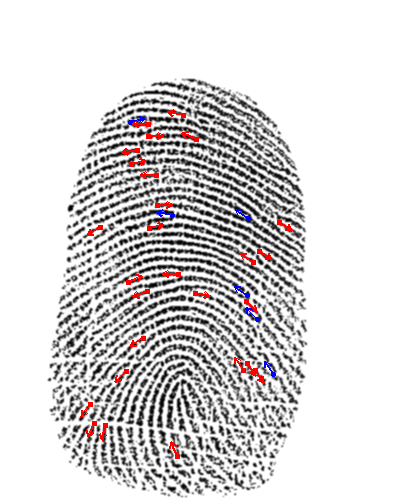
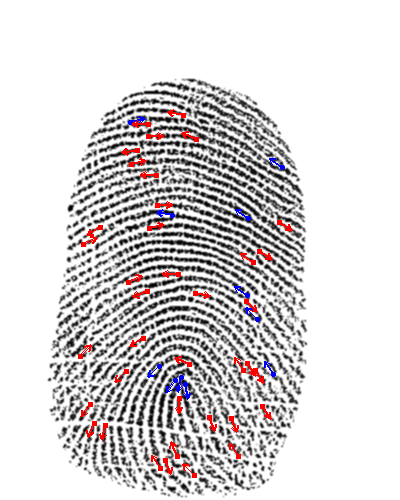
Fixes pytests with the latest api

diff --git a/bindings/python/tests/test_nbis.py b/bindings/python/tests/test_nbis.py
@@ -6,24 +6,41 @@ from io import BytesIO
 
 # --- Fixtures ---
 
+# Shared extractor fixture
+@pytest.fixture(scope="session")
+def nbis_extractor():
+    settings = nbis.NbisExtractorSettings(
+        min_quality=0.2,
+        get_center=False,
+        check_fingerprint=False,
+        ppi=None
+    )
+    return nbis.new_nbis_extractor(settings)
+
+# Updated minutiae fixtures
 @pytest.fixture
-def minutiae_p1_1():
-    image_bytes = open("../../../test_data/p1/p1_1.png", "rb").read()
-    return nbis.extract_minutiae(image=image_bytes, ppi=None)
+def minutiae_p1_1(nbis_extractor):
+    with open("../../../test_data/p1/p1_1.png", "rb") as f:
+        image_bytes = f.read()
+    return nbis_extractor.extract_minutiae(image=image_bytes)
 
 @pytest.fixture
-def minutiae_p1_2():
-    image_bytes = open("../../../test_data/p1/p1_2.png", "rb").read()
-    return nbis.extract_minutiae(image=image_bytes, ppi=None)
+def minutiae_p1_2(nbis_extractor):
+    with open("../../../test_data/p1/p1_2.png", "rb") as f:
+        image_bytes = f.read()
+    return nbis_extractor.extract_minutiae(image=image_bytes)
 
 @pytest.fixture
-def minutiae_p1_3():
-    image_bytes = open("../../../test_data/p1/p1_3.png", "rb").read()
-    return nbis.extract_minutiae(image=image_bytes, ppi=None)
+def minutiae_p1_3(nbis_extractor):
+    with open("../../../test_data/p1/p1_3.png", "rb") as f:
+        image_bytes = f.read()
+    return nbis_extractor.extract_minutiae(image=image_bytes)
 
 @pytest.fixture
-def minutiae_p2_1():
-    return nbis.extract_minutiae_from_image_file("../../../test_data/p2/p2_1.png", ppi=None)
+def minutiae_p2_1(nbis_extractor):
+    with open("../../../test_data/p2/p2_1.png", "rb") as f:
+        image_bytes = f.read()
+    return nbis_extractor.extract_minutiae(image=image_bytes)
 
 # --- Tests ---
 
@@ -40,10 +57,10 @@ def test_similarity_within_class(minutiae_p1_1, minutiae_p1_2, minutiae_p1_3):
     assert score_1_3 > 50, "Expected high similarity between p1_1 and p1_3"
     assert score_2_3 > 50, "Expected high similarity between p1_2 and p1_3"
 
-def test_iso_template_round_trip(minutiae_p1_1):
+def test_iso_template_round_trip(nbis_extractor, minutiae_p1_1):
     # Set minimum quality to 0.0 for no filtering
-    iso_template = minutiae_p1_1.to_iso_19794_2_2005(0.0)
-    minutiae_loaded = nbis.load_iso_19794_2_2005(iso_template)
+    iso_template = minutiae_p1_1.to_iso_19794_2_2005()
+    minutiae_loaded = nbis_extractor.load_iso_19794_2_2005(iso_template)
 
     for original, loaded in zip(minutiae_p1_1.get(), minutiae_loaded.get()):
         assert original.x() == loaded.x()
@@ -72,13 +89,11 @@ def images_equal(img1: Image.Image, img2: Image.Image) -> bool:
     arr2 = np.array(img2)
     return np.array_equal(arr1, arr2)
 
-def test_annotated_image_matches_ground_truth():
+def test_annotated_image_matches_ground_truth(nbis_extractor):
     # This testcase will also cover `annotate_minutiae` which takes image bytes directly instead. 
     # Load the annotated image from the function (as bytes)
-    annotated_bytes = nbis.annotate_minutiae_from_image_file(
-        "../../../test_data/p1/p1_1.png",
-        ppi=None,
-        min_quality=None,
+    annotated_bytes = nbis_extractor.annotate_minutiae_from_image_file(
+        "../../../test_data/p1/p1_1.png"
     )
     
     # Convert returned bytes into a PIL Image
